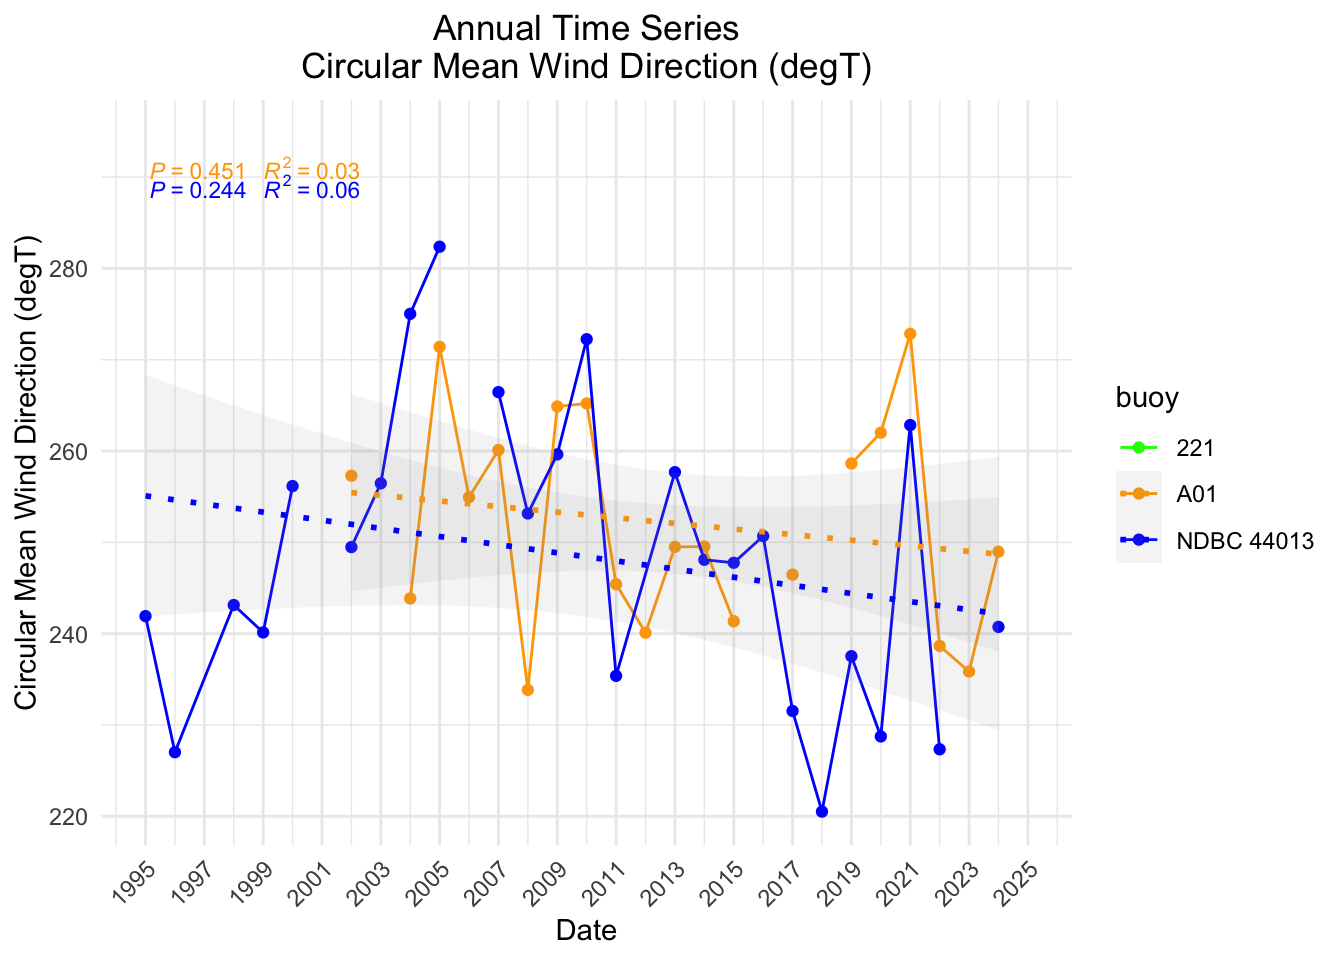
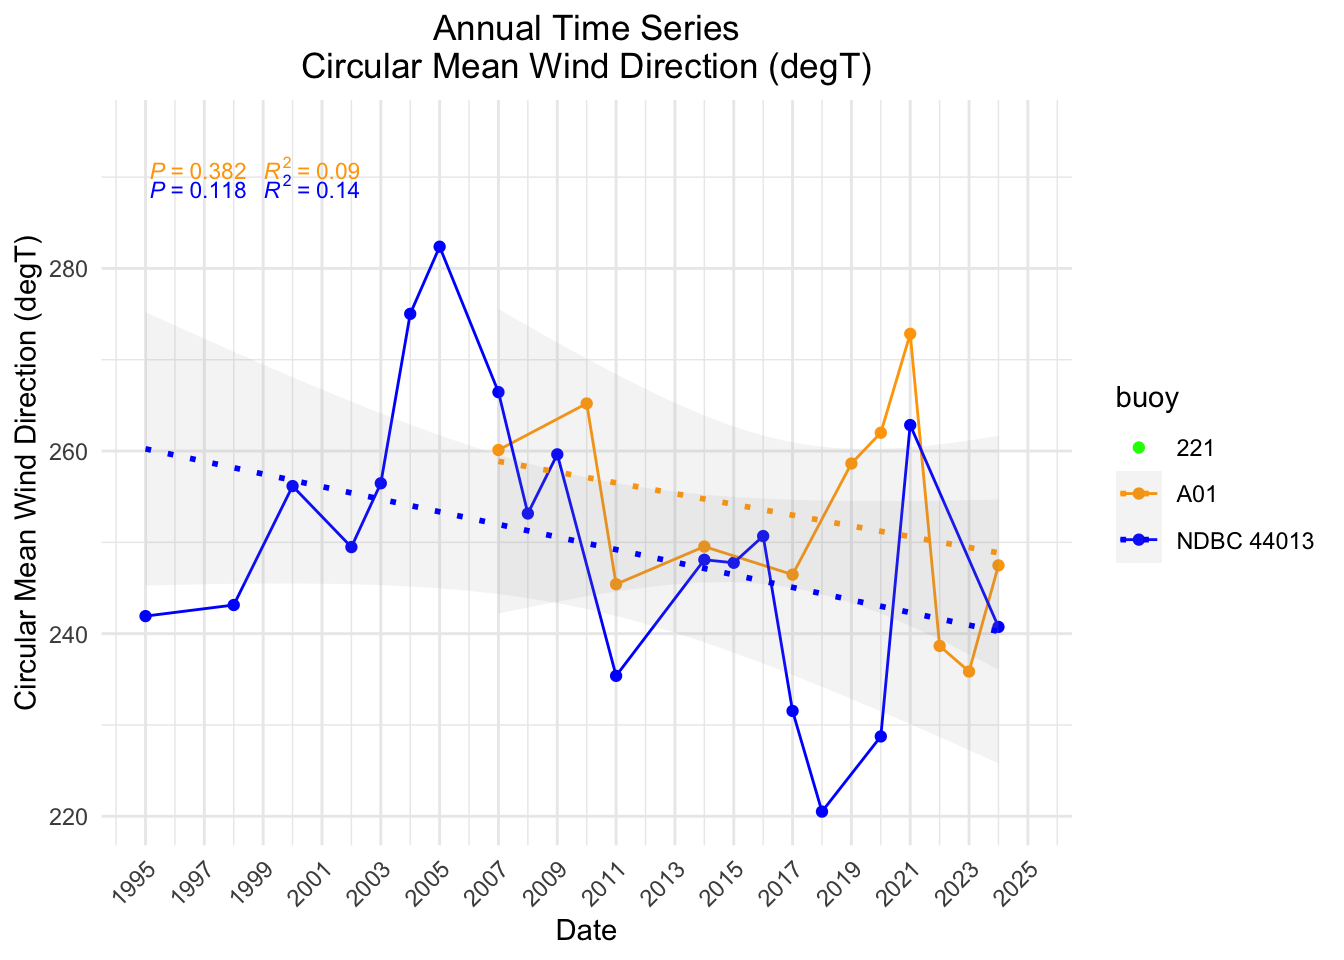
Corrected missing data solution for annual means. Previously had included years with >=80% complete data, now only includes years in which each month has >=80% data.

diff --git a/quarto_docs/buoys_merged.html b/quarto_docs/buoys_merged.html
@@ -107,12 +107,9 @@ pre > code.sourceCode > span > a:first-child::before { text-decoration: underlin
 <section id="massachusetts-bay-boston-harbor-and-cape-cod-bay-buoys" class="level1">
 <h1>Massachusetts Bay, Boston Harbor, and Cape Cod Bay Buoys</h1>
 <div class="cell">
-<details class="code-fold">
-<summary>Show the code</summary>
 <div class="sourceCode cell-code" id="cb1"><pre class="sourceCode r code-with-copy"><code class="sourceCode r"><span id="cb1-1"><a href="#cb1-1" aria-hidden="true" tabindex="-1"></a><span class="co">#'--------------------------------------</span></span>
 <span id="cb1-2"><a href="#cb1-2" aria-hidden="true" tabindex="-1"></a><span class="co">#' Data from Massachusetts Bay, Boston Harbor, Cape Cod Bay</span></span>
 <span id="cb1-3"><a href="#cb1-3" aria-hidden="true" tabindex="-1"></a><span class="co">#'--------------------------------------</span></span></code><button title="Copy to Clipboard" class="code-copy-button"><i class="bi"></i></button></pre></div>
-</details>
 </div>
 <section id="load-libraries" class="level3">
 <h3 class="anchored" data-anchor-id="load-libraries">Load Libraries</h3>
@@ -309,7 +306,7 @@ pre > code.sourceCode > span > a:first-child::before { text-decoration: underlin
 <span id="cb5-13"><a href="#cb5-13" aria-hidden="true" tabindex="-1"></a>                  <span class="at">y =</span> .data[[var]],</span>
 <span id="cb5-14"><a href="#cb5-14" aria-hidden="true" tabindex="-1"></a>                  <span class="at">color =</span> buoy)) <span class="sc">+</span></span>
 <span id="cb5-15"><a href="#cb5-15" aria-hidden="true" tabindex="-1"></a>    <span class="fu">geom_point</span>() <span class="sc">+</span></span>
-<span id="cb5-16"><a href="#cb5-16" aria-hidden="true" tabindex="-1"></a>    <span class="fu">geom_line</span>() <span class="sc">+</span></span>
+<span id="cb5-16"><a href="#cb5-16" aria-hidden="true" tabindex="-1"></a>    <span class="fu">geom_line</span>(<span class="at">data =</span> <span class="fu">filter</span>(buoy_data_annual, <span class="sc">!</span><span class="fu">is.na</span>(.data[[var]]))) <span class="sc">+</span></span>
 <span id="cb5-17"><a href="#cb5-17" aria-hidden="true" tabindex="-1"></a>    <span class="fu">geom_smooth</span>(<span class="at">method =</span> <span class="st">"lm"</span>, <span class="at">se =</span> <span class="cn">TRUE</span>, <span class="at">alpha =</span> <span class="fl">0.1</span>, <span class="at">linetype =</span> <span class="st">"dotted"</span>) <span class="sc">+</span></span>
 <span id="cb5-18"><a href="#cb5-18" aria-hidden="true" tabindex="-1"></a>    <span class="fu">labs</span>(<span class="at">x =</span> <span class="st">"Date"</span>,</span>
 <span id="cb5-19"><a href="#cb5-19" aria-hidden="true" tabindex="-1"></a>         <span class="at">y =</span> variables_meta[[var]],</span>
@@ -396,7 +393,7 @@ pre > code.sourceCode > span > a:first-child::before { text-decoration: underlin
 <span id="cb6-13"><a href="#cb6-13" aria-hidden="true" tabindex="-1"></a>                  <span class="at">y =</span> .data[[var]],</span>
 <span id="cb6-14"><a href="#cb6-14" aria-hidden="true" tabindex="-1"></a>                  <span class="at">color =</span> buoy)) <span class="sc">+</span></span>
 <span id="cb6-15"><a href="#cb6-15" aria-hidden="true" tabindex="-1"></a>    <span class="fu">geom_point</span>() <span class="sc">+</span></span>
-<span id="cb6-16"><a href="#cb6-16" aria-hidden="true" tabindex="-1"></a>    <span class="fu">geom_line</span>() <span class="sc">+</span></span>
+<span id="cb6-16"><a href="#cb6-16" aria-hidden="true" tabindex="-1"></a>    <span class="fu">geom_line</span>(<span class="at">data =</span> <span class="fu">filter</span>(buoy_data_annual, <span class="sc">!</span><span class="fu">is.na</span>(.data[[var]]) <span class="sc">&amp;</span> year <span class="sc">%in%</span> <span class="fu">c</span>(<span class="dv">2003</span><span class="sc">:</span><span class="dv">2014</span>))) <span class="sc">+</span></span>
 <span id="cb6-17"><a href="#cb6-17" aria-hidden="true" tabindex="-1"></a>    <span class="fu">geom_smooth</span>(<span class="at">method =</span> <span class="st">"lm"</span>, <span class="at">se =</span> <span class="cn">TRUE</span>, <span class="at">alpha =</span> <span class="fl">0.1</span>, <span class="at">linetype =</span> <span class="st">"dotted"</span>) <span class="sc">+</span></span>
 <span id="cb6-18"><a href="#cb6-18" aria-hidden="true" tabindex="-1"></a>    <span class="fu">labs</span>(<span class="at">x =</span> <span class="st">"Date"</span>,</span>
 <span id="cb6-19"><a href="#cb6-19" aria-hidden="true" tabindex="-1"></a>         <span class="at">y =</span> variables_meta[[var]],</span>
